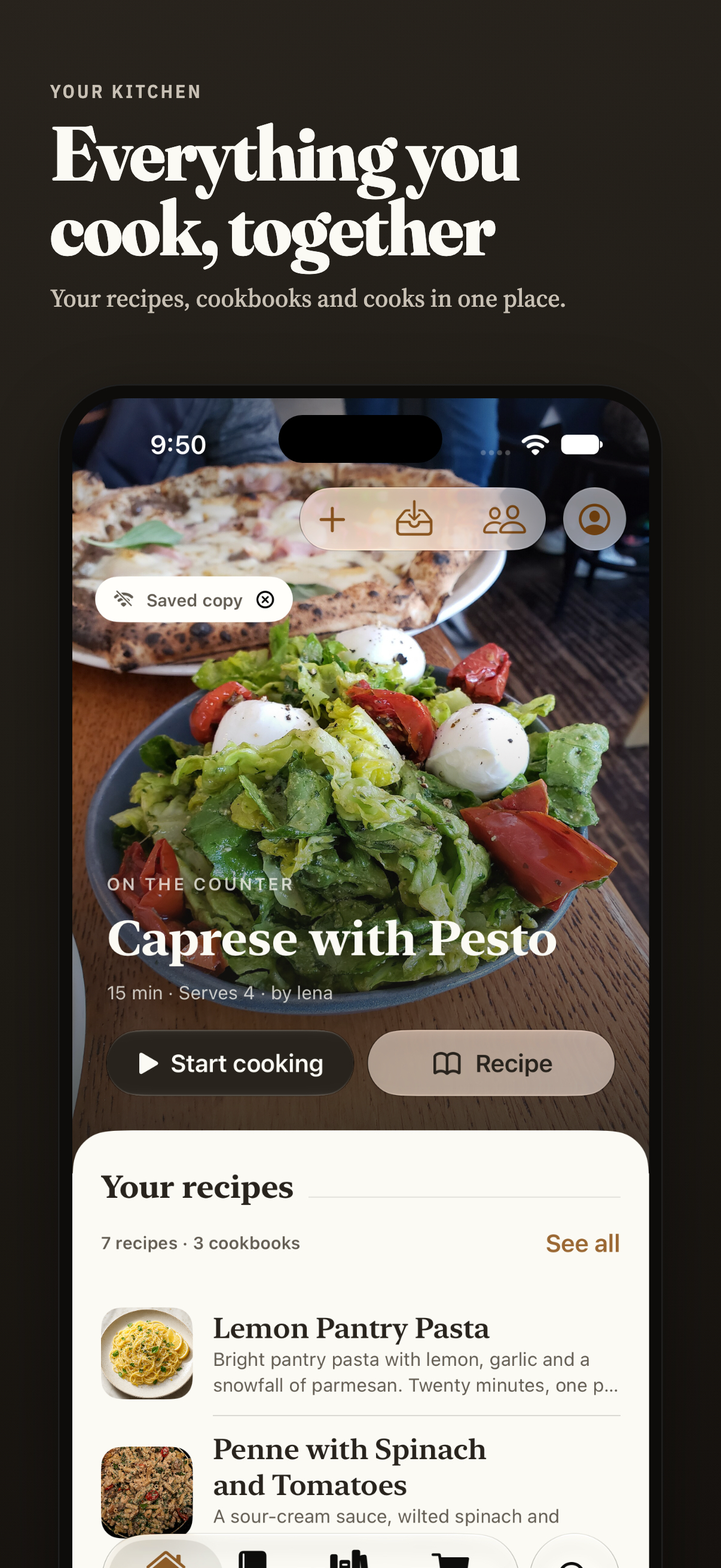
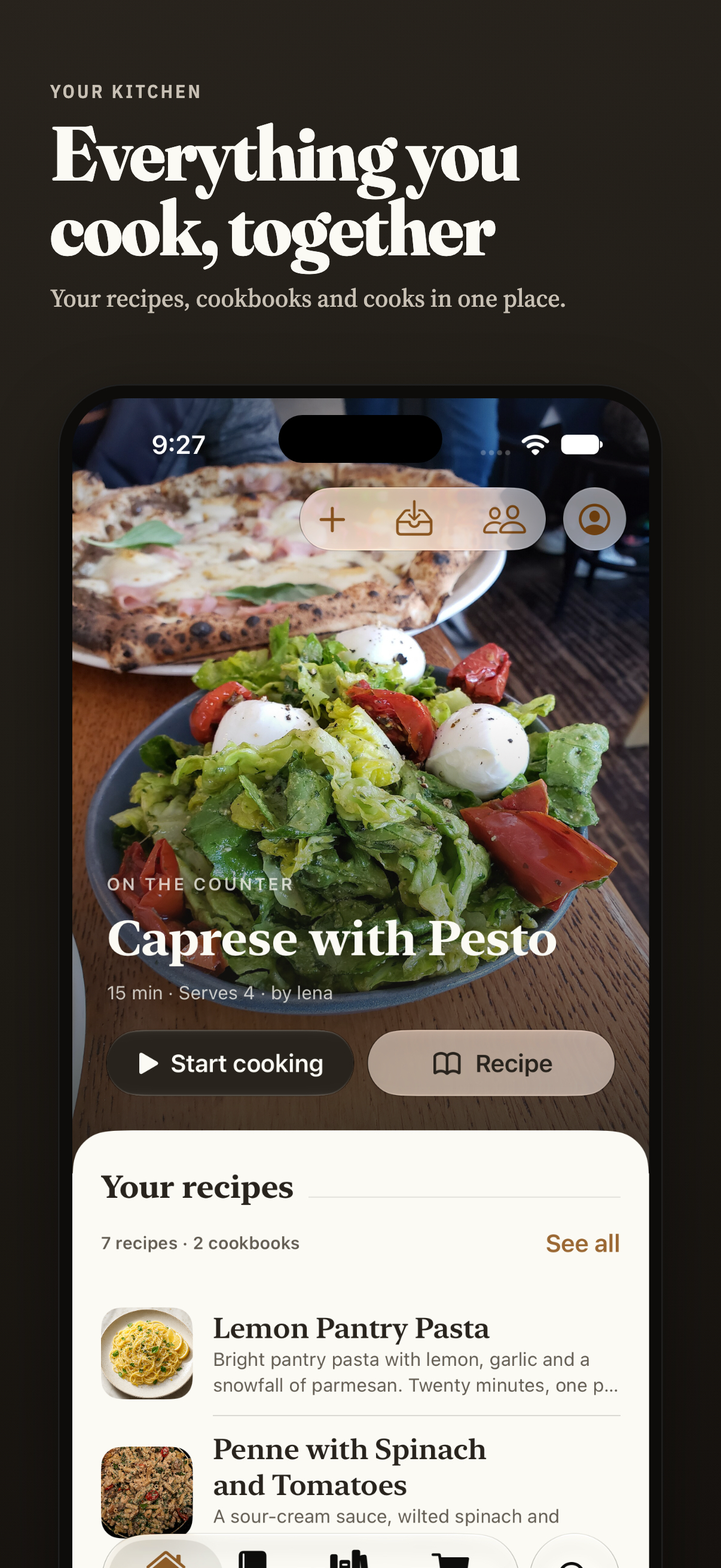
1.1 store art: no offline label on the kitchen, and no timer claims the frames or the Mac don't back
- The iPhone kitchen frames are recaptured with the offline status hidden by
  its own dismiss button, tapped through the layout audit's UI test bundle.
- The cook frames' captions said the timer starts itself over an idle ring;
  they now name the ingredient checklist the frames show.
- Mac has no step timers (AlarmKit is iOS only), so the Mac description,
  What's New and review notes stop promising one, and drop the "timer"
  voice command and the step-timer shortcut.
- iOS: the timer starts when a step's last ingredient is checked, not when
  the step is reached; the description and review notes say so.

Changed region(s): [[0.1227, 0.3398, 0.4295, 0.4016], [0.2148, 0.278, 0.2761, 0.3089]]

diff --git a/Apps/Spoonjoy/UITests/LayoutAuditUITests.swift b/Apps/Spoonjoy/UITests/LayoutAuditUITests.swift
@@ -164,10 +164,15 @@ final class LayoutAuditUITests: XCTestCase {
         }
         let app = XCUIApplication(bundleIdentifier: "app.spoonjoy")
         app.activate()
-        let hide = app.buttons["Hide offline status"]
-        if hide.waitForExistence(timeout: 15) {
-            hide.tap()
-            XCTAssertTrue(hide.waitForNonExistence(timeout: 10), "The offline status is still showing after its dismiss button was tapped.")
+        // A screen can show more than one status. A recipe page's own "may be stale" status stays after the shell's is
+        // hidden, so on that route the test fails rather than hand the capture a screen with a status left on it.
+        let hide = app.buttons.matching(identifier: "xmark.circle").matching(NSPredicate(format: "label == %@", "Hide offline status"))
+        if hide.firstMatch.waitForExistence(timeout: 15) {
+            for _ in 0..<4 where hide.firstMatch.exists {
+                hide.firstMatch.tap()
+                _ = hide.firstMatch.waitForNonExistence(timeout: 2)
+            }
+            XCTAssertEqual(hide.count, 0, "The offline status is still showing after its dismiss buttons were tapped.")
         }
         app.activate()
     }
